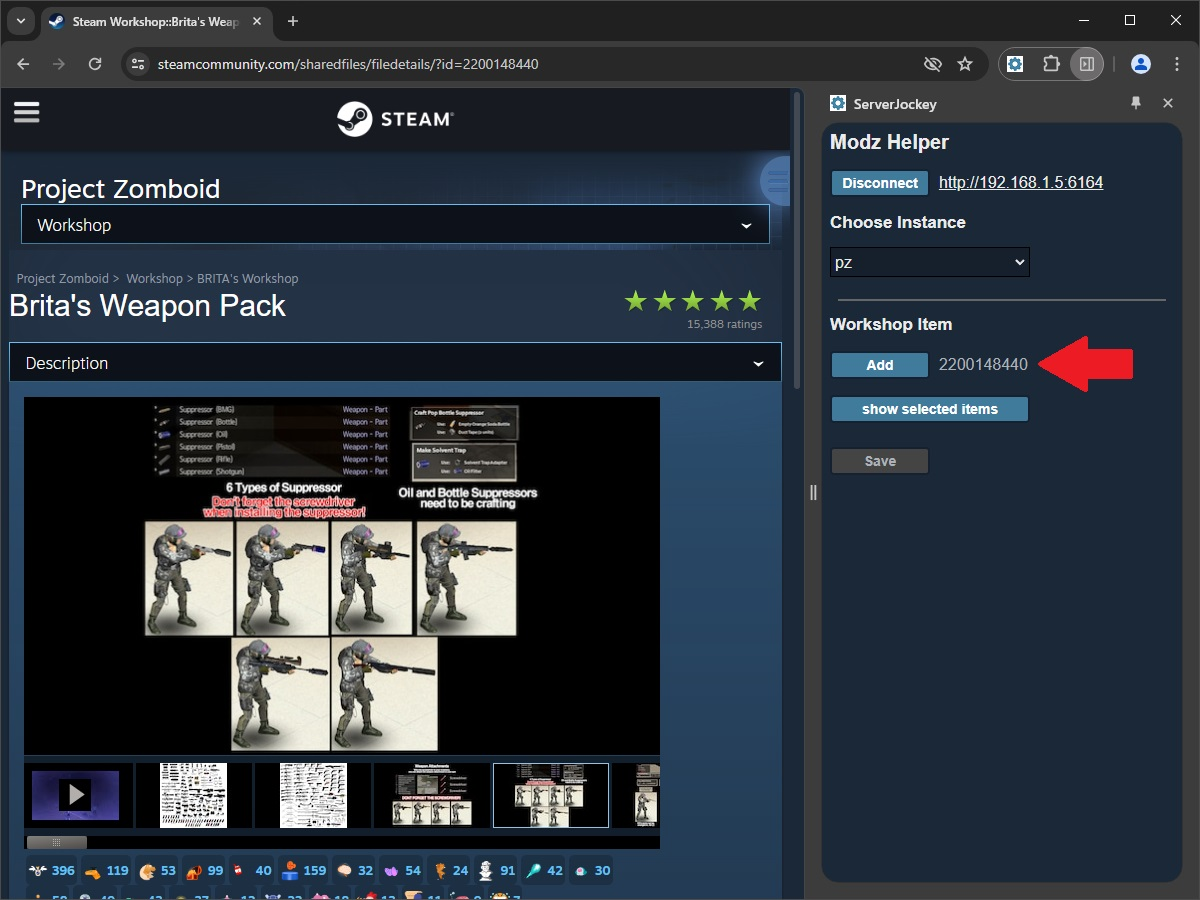
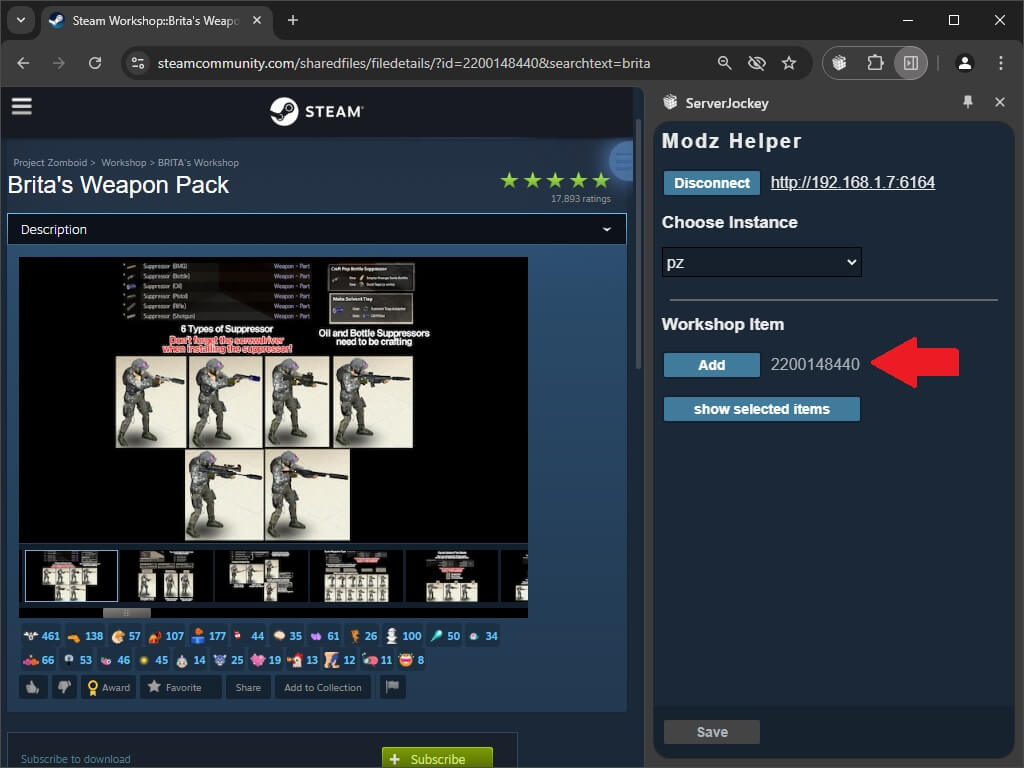
Redone and trimmed browser extension screenshots

diff --git a/client/web/src/routes/guides/extension/+page.svelte b/client/web/src/routes/guides/extension/+page.svelte
@@ -44,8 +44,8 @@
       <span class="has-text-weight-bold">Add extension</span>
       button on the confirmation popup.
     </p>
-    <figure class="image max-800">
-      <img src={surl('/assets/guides/extension/chrome_extension_page.jpg')} alt="Chrome extension page" />
+    <figure class="image max-1024">
+      <img src={surl('/assets/guides/extension/chrome_extension_page.png')} alt="Chrome extension page" />
     </figure>
   {:else if isEdge}
     <p><span class="step-title"></span>
@@ -58,7 +58,7 @@
       <span class="has-text-weight-bold">Add extension</span>
       button on the confirmation popup.
     </p>
-    <figure class="image max-800">
+    <figure class="image max-1024">
       <img src={surl('/assets/guides/extension/edge_extension_page.png')} alt="Edge extension page" />
     </figure>
   {:else}
@@ -119,7 +119,7 @@
     ServerJockey system. Enter the URL for the ServerJockey webapp and the login token, then click
     <span class="has-text-weight-bold notranslate">Connect</span>.
   </p>
-  <figure class="image max-800">
+  <figure class="image max-1024">
     <img src={surl('/assets/guides/extension/mod_britas_login.jpg')} alt="Connect to ServerJockey" loading="lazy" />
   </figure>
 </div>
@@ -132,7 +132,7 @@
     <span class="has-text-weight-bold notranslate">Add</span>
     button. Click the button to add the workshop item.
   </p>
-  <figure class="image max-800">
+  <figure class="image max-1024">
     <img src={surl('/assets/guides/extension/mod_britas_add.jpg')} alt="Add the workshop item" loading="lazy" />
   </figure>
 </div>
@@ -146,7 +146,7 @@
     <span class="has-text-weight-bold notranslate">Selected Mods</span>
     list.
   </p>
-  <figure class="image max-800">
+  <figure class="image max-1024">
     <img src={surl('/assets/guides/extension/mod_britas_available.jpg')} alt="Available mods" loading="lazy" />
   </figure>
 </div>
@@ -160,7 +160,7 @@
     button to commit changes to the INI file of the selected instance.
     Note that the server will need to be restarted for these changes to take effect.
   </p>
-  <figure class="image max-800">
+  <figure class="image max-1024">
     <img src={surl('/assets/guides/extension/mod_britas_selected.jpg')} alt="Selected mods" loading="lazy" />
   </figure>
 </div>
@@ -175,7 +175,7 @@
     &nbsp;<span class="is-family-monospace notranslate">Muldraugh, KY</span>&nbsp;
     should always be at the bottom.
   </p>
-  <figure class="image max-800">
+  <figure class="image max-1024">
     <img src={surl('/assets/guides/extension/mod_chinatown_available.jpg')} alt="Map mod" loading="lazy" />
   </figure>
 </div>
@@ -188,7 +188,7 @@
     You are able to jump to any workshop item using the workshop ID link.
     Use the cross button to remove any workshop item, but remember to save changes.
   </p>
-  <figure class="image max-800">
+  <figure class="image max-1024">
     <img src={surl('/assets/guides/extension/mod_chinatown_workshops.jpg')} alt="Workshop list" loading="lazy" />
   </figure>
 </div>
